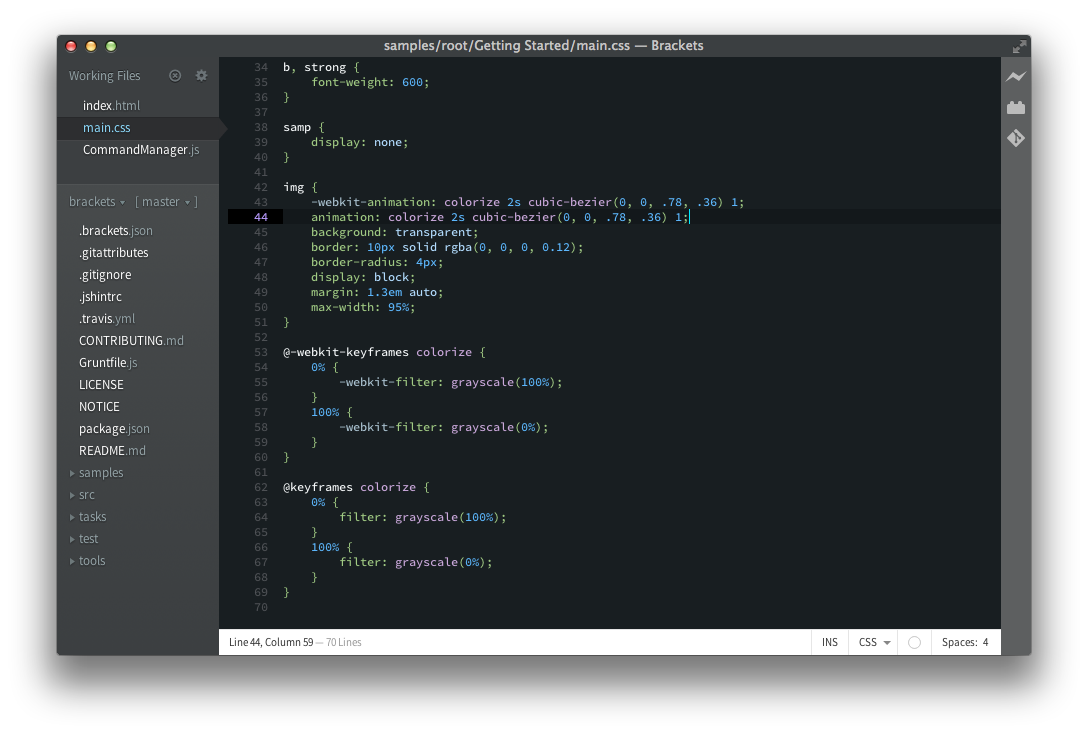
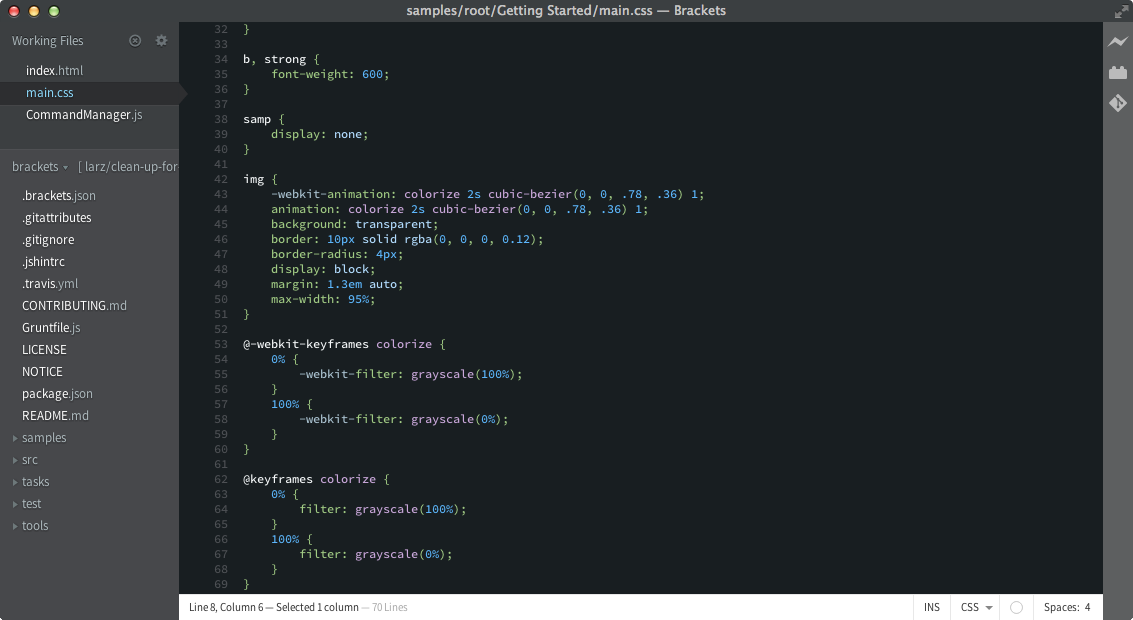
Update.

diff --git a/starplatinumdark.css b/starplatinumdark.css
@@ -28,8 +28,6 @@ span.cm-bracket		{ color: #aac2d0; }
 span.cm-meta		{ color: #aac2d0; }
 
 
-
-
 /* MISC ---------------------------------------------------------------------- */
 
 .CodeMirror,
@@ -39,11 +37,11 @@ span.cm-meta		{ color: #aac2d0; }
 }
 
 .CodeMirror-cursor {
-	border-left: 2px solid #00ebff !important;
+	border-left: 1px solid #00ebff !important;
 }
 
 .CodeMirror-overwrite .CodeMirror-cursor {
-    border-bottom: 2px solid #00ebff !important;
+    border-bottom: 1px solid #00ebff !important;
     border-left: none !important;
 }
 
@@ -90,4 +88,15 @@ span.cm-meta		{ color: #aac2d0; }
 
 .CodeMirror-focused .CodeMirror-activeline .inline-widget .CodeMirror-gutter-elt {
 	color: #f6f9fa;
+}
+
+/* Non-editor styling */
+
+#image-holder,
+#not-editor {
+    background-color: #181e21;
+}
+
+#image-holder {
+    color: #a1cb84;
 }
